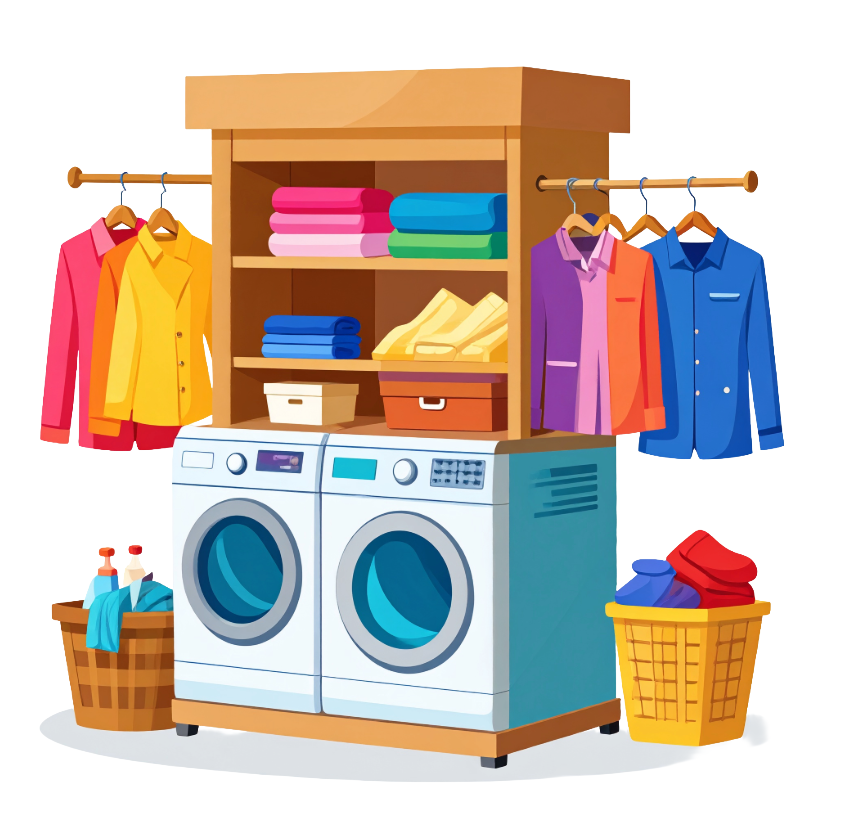
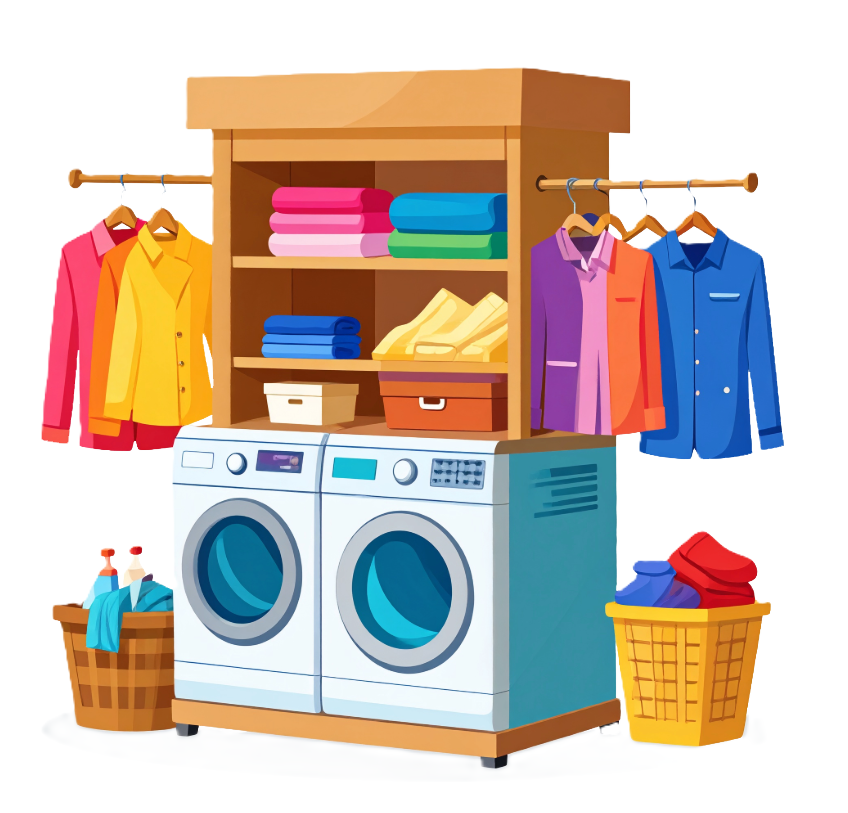
working on right div

diff --git a/index.html b/index.html
@@ -11,7 +11,39 @@
       <div class="left">
         <img src="laundryMart.png" alt="laundrymart" />
       </div>
-      <div class="right"></div>
+      <div class="right">
+        <section id="greeting">
+          <h2>Hello Again!</h2>
+          <p>Welcome back! We missed you!</p>
+        </section>
+
+        <section id="login">
+          <form action="">
+            <label for="email">Email</label>
+            <input
+              id="email"
+              type="email"
+              minlength="5"
+              placeholder="Email@site.com"
+              maxlength="12"
+              required
+            />
+            <label for="password">Password</label>
+            <input
+              id="password"
+              type="password"
+              minlength="5"
+              placeholder="password"
+              maxlength="12"
+              required
+            />
+            <button id="forget">Forget Password</button>
+            <button>Login</button>
+            <p>Not a member?</p>
+            <button id="register">Register Now</button>
+          </form>
+        </section>
+      </div>
     </div>
   </body>
 </html>

diff --git a/style.css b/style.css
@@ -7,8 +7,41 @@
 .container {
   border: 2px solid red;
   height: 100vh;
+
+  display: flex;
 }
 
+.left {
+  width: 50vw;
+  border: 2px solid red;
+  display: flex;
+  justify-content: center;
+  align-items: center;
+  background-color: blue;
+}
+
+.right {
+  width: 50vw;
+  border: 2px solid red;
+  padding-top: 80px;
+  display: flex;
+  flex-direction: column;
+  align-items: center;
+}
 .left img {
-  height: 90vh;
+  height: 80vh;
+  width: 40vw;
+}
+#greeting {
+  display: flex;
+  flex-direction: column;
+  align-items: center;
+  gap: 8px;
+}
+
+#login form {
+  display: flex;
+  flex-direction: column;
+  gap: 8px;
+  width: 70%;
 }
